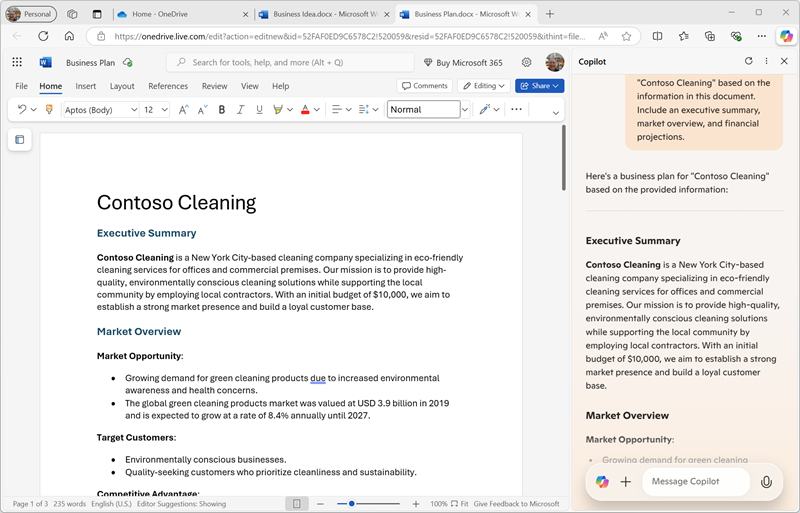
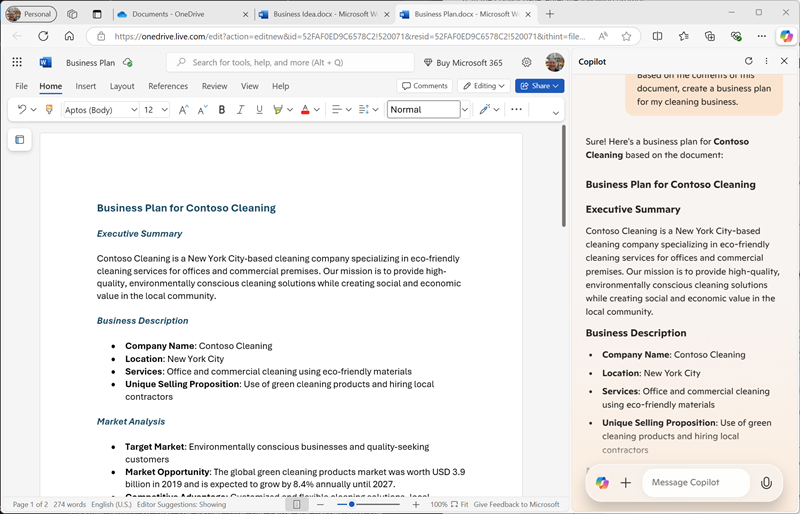
Update to reference content

diff --git a/Instructions/Labs/12-generative-ai.md b/Instructions/Labs/12-generative-ai.md
@@ -19,7 +19,7 @@ To start your exploration of generative AI, let's use Microsoft Copilot in Edge 
 
     > **Tip**: If you don't see the option to save a copy of the file to OneDrive, download it to your local computer. Then, in OneDrive, open the **Documents** folder and use the **+ Add new** button to upload the **Business Idea.docx** file from your local computer to OneDrive.
 
-1. View the text in **Business Idea.docx**, which describe some high -level ideas for a cleaning business in New York City.
+1. View the text in the **Business Idea** document, which describe some high -level ideas for a cleaning business in New York City.
 1. Use the **Copilot** icon on the Edge toolbar to open the Copilot pane, as shown here:
 
     ![Screenshot of the Copilot pane in Microsoft Edge.](./media/generative-ai/edge-copilot.png)
@@ -55,14 +55,14 @@ Now that you've done some initial research, let's have Copilot help you develop 
 1. With the **Business Idea.docx** document still open in Microsoft Edge, in the Copilot pane, enter the following prompt:
 
     ```
-    Suggest a name for my cleaning business
+    Suggest a name for my cleaning business.
     ```
 
-1. Review the suggestions and select a name for your cleaning company (or continue prompting to find a name you like).
-1. Enter the following prompt, replacing *Contoso Cleaning* with the company name of your choice:
+1. Review the suggestions and select a name for your cleaning company (or continue prompting for more suggestions find a name you like). When you have chosen one, let Copilot know which one - for example, enter `Let's go with the first one.`.
+1. Ensure that the **Business Idea** document is still open in the main browser page, then enter the following prompt:
 
     ```
-    Write a business plan for "Contoso Cleaning" based on the information in this document. Include an executive summary, market overview, and financial projections.
+    Based on the contents of this document, create a business plan for my cleaning business.
     ```
 
 1. Review the response. Then in the Microsoft Word pane, in the **File** menu, create a new blank document. Close the **Designer** pane if it opens and change the name of the new document from *Document* to `Business Plan`.
